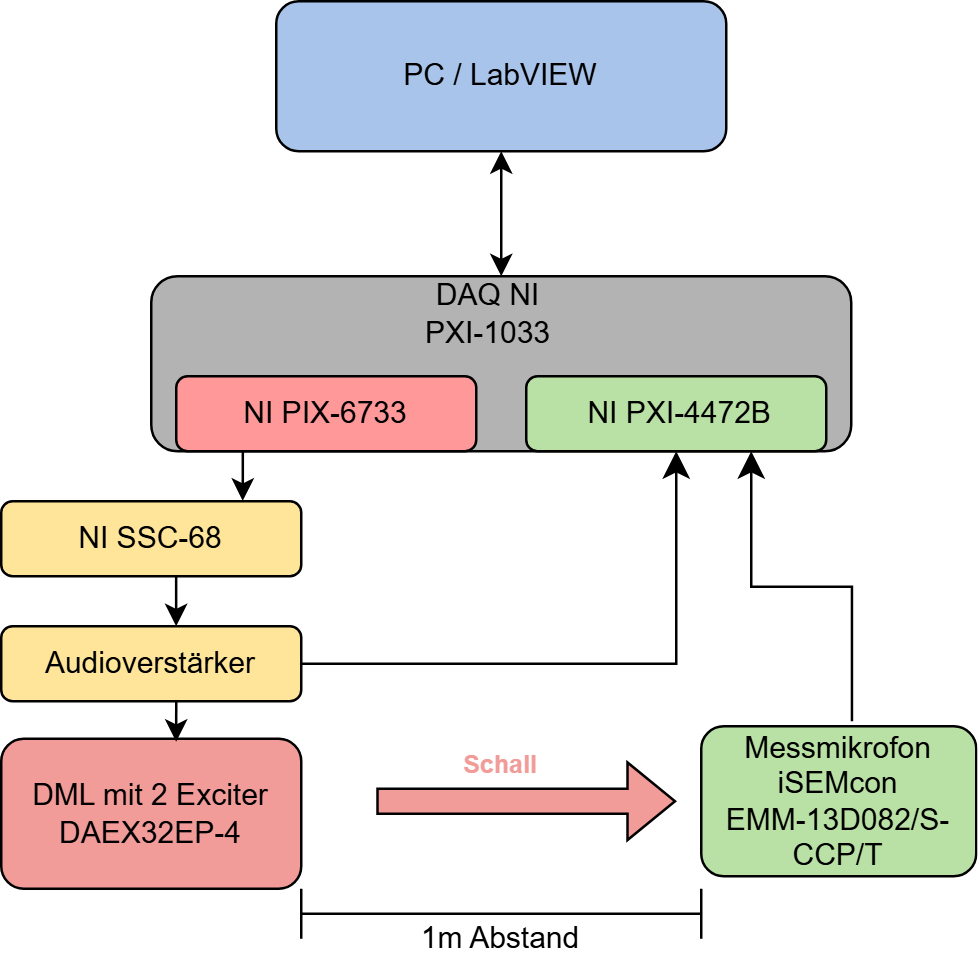
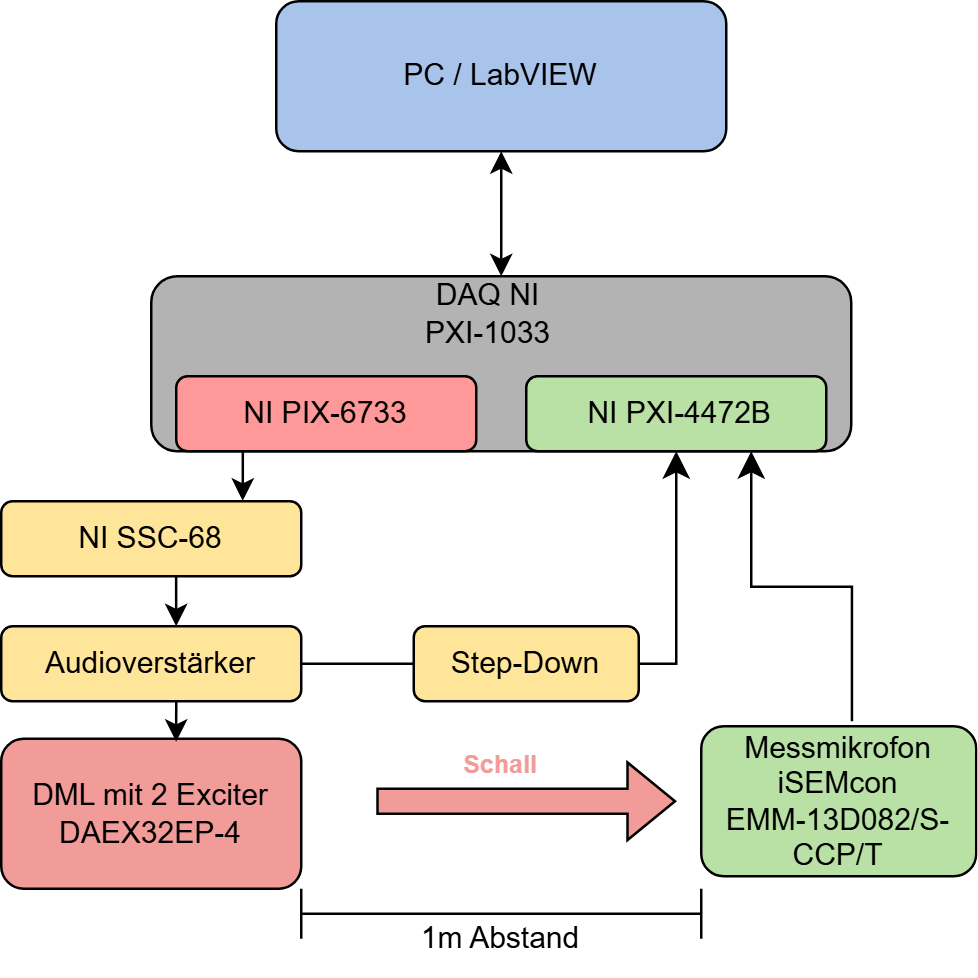
Rechtschreibkorrekturen Kapitel 3.5
Korrigiert: Mikrfon, Weißesrauschen, Singale, Keern, nacheinader, \Item und weitere Tippfehler im Abschnitt Realer Versuchsaufbau.

Changed region(s): [[0.3988, 0.6135, 0.6748, 0.7362]]

diff --git a/chapters/chapter_3/chapter_3.tex b/chapters/chapter_3/chapter_3.tex
@@ -549,7 +549,7 @@ Um einen DML-Lautsprecher einzumessen und dessen akustische Eigenschaften zu beu
 
 \begin{itemize}
     \item Erzeugen und Abspielen eines Testsignals 
-    \item Erfassen des Mikrfon und Referenzsignals
+    \item Erfassen des Mikrofon- und Referenzsignals
     \item Verarbeitung der Messwerte Bilden der Übertragungsfunktion
     \item Darstellen der Messwerte in einem Graphen
     \item Speichern der Messwerte als Verarbeitbare Datei
@@ -567,23 +567,23 @@ In dieser Arbeit wird LabVIEW verwendet, um den DML-Lautsprecher auf seine akust
 	\label{fig:blockschaltbild_exciter}
 \end{figure}
 
-Abbildung \ref{fig:blockschaltbild_exciter} zeigt den Signalfluss des Versuchsaufbaus im Freifeldraum in form eines Blockschaltbildes. Als Testsignal wird in LabVIEW ein Weißesrauschen erzeugt, der über den Ausgang der NI PXI-6733 Datenausgabekarte an den Audioverstärker weitergeleitet wird. Das vom Verstärker verstärkte elektrische Signal wird anschließend über den Lautsprecherausgang sowohl an die verwendeten Exciter als auch an einen Step-Down-Converter geführt.
+Abbildung \ref{fig:blockschaltbild_exciter} zeigt den Signalfluss des Versuchsaufbaus im Freifeldraum in Form eines Blockschaltbildes. Als Testsignal wird in LabVIEW ein weißes Rauschen erzeugt, das über den Ausgang der NI PXI-6733 Datenausgabekarte an den Audioverstärker weitergeleitet wird. Das vom Verstärker verstärkte elektrische Signal wird anschließend über den Lautsprecherausgang sowohl an die verwendeten Exciter als auch an einen Step-Down-Converter geführt.
 Der Step-Down-Converter reduziert die Spannung des Verstärkerausgangssignals und stellt ein Referenzsignal bereit, das zur Bestimmung der Übertragungsfunktion verwendet wird. Dieses Referenzsignal wird mit einem Step-Down Converter runter geregelt und auf einen Eingang der NI PXI-4472B Datenerfassungskarte geführt. Parallel dazu wandeln die Exciter das verstärkte elektrische Signal in mechanische Schwingungen um, wodurch das DML-Panel angeregt wird und Schallwellen erzeugt.
 Die abgestrahlten Schallwellen werden vom Messmikrofon aufgenommen und in ein elektrisches Signal umgewandelt. Dieses Mikrofonsignal wird ebenfalls auf einen Eingang der NI PXI-4472B Datenerfassungskarte geleitet. Somit liegen sowohl das Referenzsignal als auch das Messsignal gleichzeitig in digitaler Form vor.
-Die erfassten Eingangssignale werden in LabVIEW Umgerechnet und Gemittelt, sodass aus Referenz- und Messsignal die frequenzabhängige Übertragungsfunktion des Lautsprechers bestimmt werden kann. Dadurch ist eine objektive Bewertung des Frequenzgangs sowie des Schalldruckpegels unter definierten Freifeldbedingungen möglich.
+Die erfassten Eingangssignale werden in LabVIEW umgerechnet und gemittelt, sodass aus Referenz- und Messsignal die frequenzabhängige Übertragungsfunktion des Lautsprechers bestimmt werden kann. Dadurch ist eine objektive Bewertung des Frequenzgangs sowie des Schalldruckpegels unter definierten Freifeldbedingungen möglich.
 
 
 \subsection{Blockschaltbild}
 
-Das Blockschaltbild in LabVIEW stellt die Daten erzeugung und verarbeit dar und kann als Ablaufplan angesehen werden. Das Blockschaltbild besteht dabei aus verschiedenen VIs welche nacheinader ausgeführt und dessen zustände ermittelt werden. In diesem Programm ist die "While-Schleife" der Keern des Programms, da in dieser eine Abfolge immer wieder wiederholt wird bis eine Bedingung erfüllt ist. Mit dieser Schleife können die Aufgenommenen werte Gemittelt werden. Das Programm für die Vermessung des DML-Lautsprechers hat folgenden aufbau:
+Das Blockschaltbild in LabVIEW stellt die Datenerzeugung und -verarbeitung dar und kann als Ablaufplan angesehen werden. Das Blockschaltbild besteht dabei aus verschiedenen VIs, welche nacheinander ausgeführt und deren Zustände ermittelt werden. In diesem Programm ist die „While-Schleife" der Kern des Programms, da in dieser eine Abfolge immer wieder wiederholt wird, bis eine Bedingung erfüllt ist. Mit dieser Schleife können die aufgenommenen Werte gemittelt werden. Das Programm für die Vermessung des DML-Lautsprechers hat folgenden Aufbau:
 
 \begin{enumerate}
     \item Initialisierung der Ein- und Ausgangskanäle
     \item Erzeugen eines Testsignals 
-    \item Verarbeiten der Eingangssingale
-    \Item Verarbeitung der Singale
-    \item Mittelung der Singale
-    \item Darstellung der Singale
+    \item Verarbeiten der Eingangssignale
+    \item Verarbeitung der Signale
+    \item Mittelung der Signale
+    \item Darstellung der Signale
 \end{enumerate}
 
 
